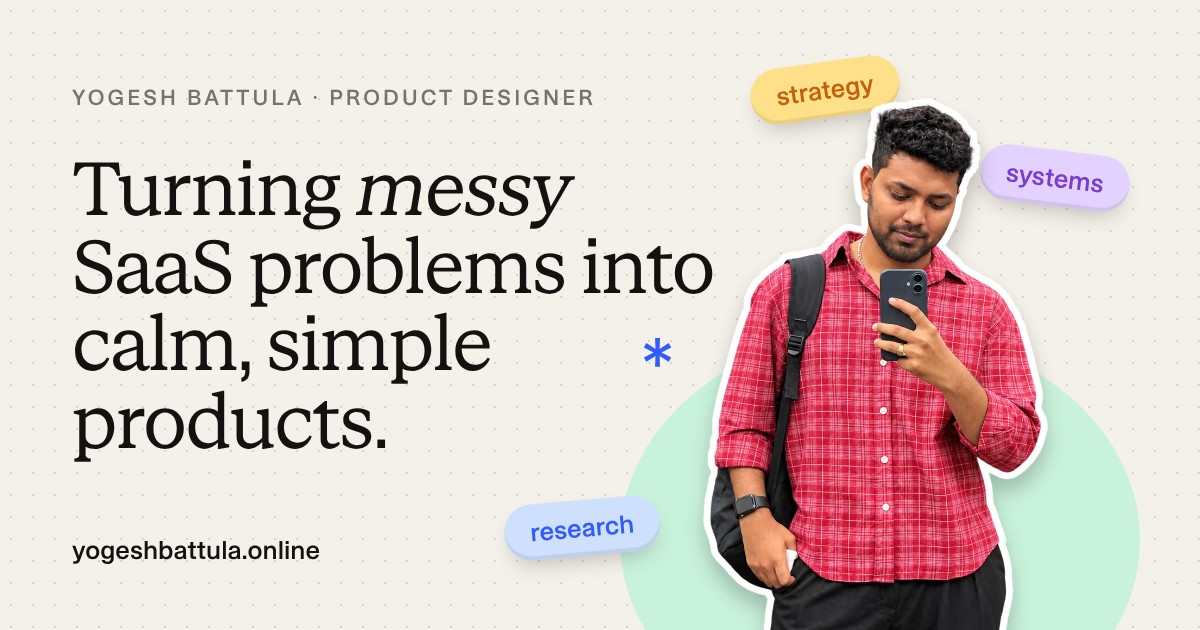
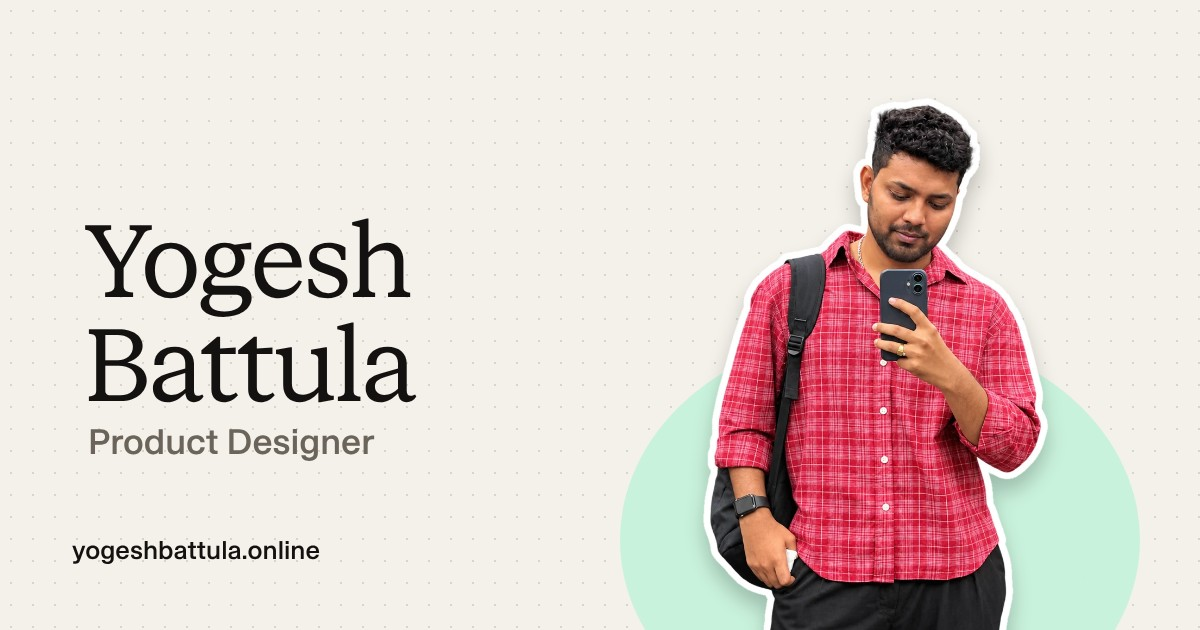
Simpler share thumbnail: name, role, photo
Claude-Session: https://claude.ai/code/session_01JfxQuDCeqtqb7Zq9WXLfNo

diff --git a/index.html b/index.html
@@ -24,7 +24,7 @@
     <meta property="og:url" content="https://www.yogeshbattula.online/" />
     <meta property="og:title" content="Yogesh Battula — Product Designer" />
     <meta property="og:description" content="Product designer turning messy SaaS problems into calm, simple products. 5+ years across web, mobile and AI." />
-    <meta property="og:image" content="https://www.yogeshbattula.online/og-image.jpg?v=2" />
+    <meta property="og:image" content="https://www.yogeshbattula.online/og-image.jpg?v=3" />
     <meta property="og:image:width" content="1200" />
     <meta property="og:image:height" content="630" />
     <meta property="og:image:alt" content="Yogesh Battula — Product Designer" />
@@ -36,7 +36,7 @@
     <meta name="twitter:url" content="https://www.yogeshbattula.online/" />
     <meta name="twitter:title" content="Yogesh Battula — Product Designer" />
     <meta name="twitter:description" content="Product designer turning messy SaaS problems into calm, simple products. 5+ years across web, mobile and AI." />
-    <meta name="twitter:image" content="https://www.yogeshbattula.online/og-image.jpg?v=2" />
+    <meta name="twitter:image" content="https://www.yogeshbattula.online/og-image.jpg?v=3" />
 
     <!-- Structured Data (JSON-LD) for Search Engine Rich Snippets -->
     <script type="application/ld+json">
@@ -46,7 +46,7 @@
       "name": "Yogesh Battula",
       "jobTitle": "Product Designer",
       "url": "https://www.yogeshbattula.online/",
-      "image": "https://www.yogeshbattula.online/og-image.jpg?v=2",
+      "image": "https://www.yogeshbattula.online/og-image.jpg?v=3",
       "sameAs": [
         "https://www.linkedin.com/in/yogeshbattula/",
         "https://www.behance.net/yogeshbattula5"
